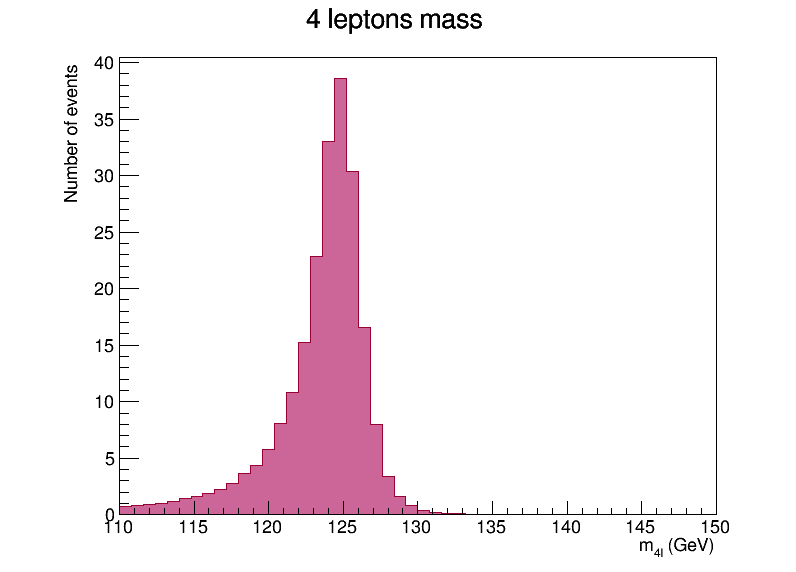
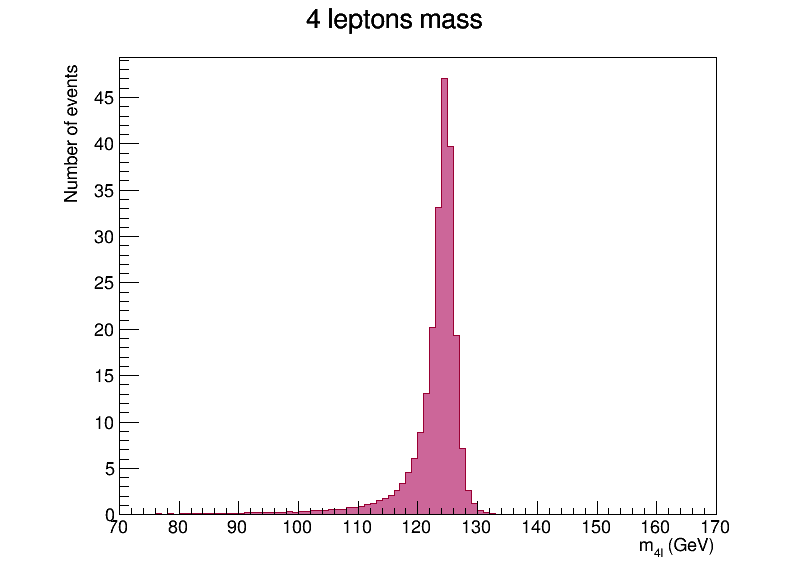
Zad2 dovrsen

diff --git a/Vjezbe_8/Analyzer.cpp b/Vjezbe_8/Analyzer.cpp
@@ -1,6 +1,39 @@
 #define Analyzer_cxx
 #include <Analyzer.h>
 
+void Analyzer::Model_70_170GeV()
+{
+    TCanvas *cm = new TCanvas("cm", "model", 0,0,1000,800);
+
+    TF1 *f_model = new TF1("f_model", "[0]*[1]/( (x^2 - [2]^2)^2 + 0.25*[1]^2 )  +  [3] + [4]*x + [5]*x^2  +  [6]*[7]/( (x^2 - [8]^2)^2 + 0.25*[7]^2 )", 70., 170.);
+    f_model->SetParNames("D_{Higgs}", "#Gamma_{Higgs}", "M_{Higgs}", "A_{Higgs}", "B_{Higgs}", "C_{Higgs}", "D_{Z}", "#Gamma_{Z}", "M_{Z}");
+    f_model->SetParameters(11248., 927., 124.4, -10., 0.17, -0.0003, 19266., 760., 90.8);
+    f_model->SetTitle("Teorijski model");
+    f_model->SetLineColor(kViolet+4);
+
+
+    TLegend *leg = new TLegend(0.2, 0.7, 0.9, 0.9);
+    leg->AddEntry(f_model, "f(x)=#frac{D_{Higgs}#Gamma_{Higgs}}{(x^{2}-M_{Higgs}^{2})^{2} + 0.25#Gamma_{Higgs}^{2}} + A_{Higgs} + B_{Higgs}x + C_{Higgs}x^{2} + #frac{D_{Z}#Gamma_{Z}}{(x^{2}-M_{Z}^{2})^{2}}" , "l");
+    leg->Draw();
+
+    h_m4l_higgs->Add(h_m4l_pozadina); // naredba ako nije pozvana PlotPublicHistograms()!
+    h_m4l_higgs->Fit(f_model, "L"); // "WL" = use Loglikelihood with weighted bin contents
+    gStyle->SetOptFit();
+    
+    h_m4l_higgs->GetXaxis()->SetTitle("m_{4l} (GeV)");
+    h_m4l_higgs->GetYaxis()->SetTitle("Number of events / 1 GeV");
+    h_m4l_higgs->Draw("E1 X0");
+    f_model->Draw("same");
+
+    cm->SaveAs("teorija.png");
+
+    delete cm;
+    delete f_model;
+    delete leg;
+
+
+}
+
 void Analyzer::PlotHistogram(TString dir_name)
 {
     //stvori file i ucitaj stablo iz mape koju ti dam
@@ -333,7 +366,7 @@ void Analyzer::PlotPublicHistograms()
 
     h_m4l_higgs->Draw("E1 X0");
     h_m4l_higgs->GetXaxis()->SetTitle("m_{4l} (GeV)");      //OVO NAKON Draw()!!!
-    h_m4l_higgs->GetYaxis()->SetTitle("Number of events / 2 GeV");
+    h_m4l_higgs->GetYaxis()->SetTitle("Number of events / 1 GeV");
 
 
 

diff --git a/Vjezbe_8/Analyzer.h b/Vjezbe_8/Analyzer.h
@@ -1457,7 +1457,8 @@ public :
    TH2F *h_2d_sig;
    TH2F *h_2d_bkg;
 
-   /*** VJEZBE 8: Zad 1***/
+   /*** VJEZBE 8: Zad 2***/
+   void Model_70_170GeV();
    
 };
 
@@ -1482,8 +1483,8 @@ Analyzer::Analyzer() : fChain(0)
    */
 
    /* INICIJALIZIRAJ HISTOGRAME */
-   h_m4l_pozadina = new TH1F("h_m4l_pozadina", "4l from background", 50, 110., 150.);
-   h_m4l_higgs    = new TH1F("h_m4l_higgs", "4l from Higgs", 50, 110., 150.);
+   h_m4l_pozadina = new TH1F("h_m4l_pozadina", "4l from background", 100, 70., 170.);
+   h_m4l_higgs    = new TH1F("h_m4l_higgs", "4l from Higgs", 100, 70., 170.);
    h_Dkin_sig     = new TH1F("h_Dkin_sig", "kin discriminant for signal events", 50, 0., 1.);
    h_Dkin_bkg     = new TH1F("h_Dkin_bkg", "kin discriminant for background  events", 50, 0., 1.);
    h_2d_sig       = new TH2F("h_2d_sig", "signal", 50, 70., 170.,  50, 0., 1.);

diff --git a/Vjezbe_8/main.cpp b/Vjezbe_8/main.cpp
@@ -6,7 +6,8 @@ int main(){
 
     a->PlotHistogram("ggH125");
     a->PlotHistogram("qqZZ"); //sad sam napunila oba histograma za masu 4l    
-    a->PlotPublicHistograms();
+    //a->PlotPublicHistograms(); 
+    a->Model_70_170GeV();
 
     delete a;
  
